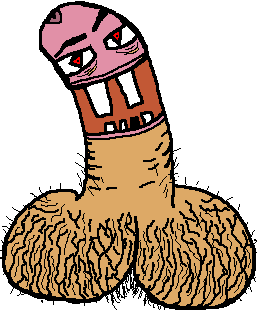
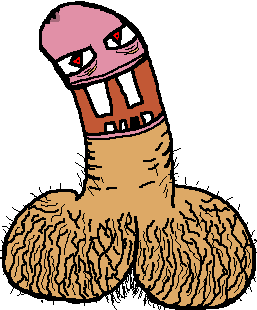
v.1.9.36# colores stats mejorados, animaciones parpadeo culo, ajustes varios, refactorización en progreso...

Changed region(s): [[0.2179, 0.029, 0.4358, 0.2032], [0.1868, 0.029, 0.249, 0.0871]]

diff --git a/core/src/main/java/com/sticklike/core/entidades/enemigos/mobs/EnemigoCulo.java b/core/src/main/java/com/sticklike/core/entidades/enemigos/mobs/EnemigoCulo.java
@@ -3,6 +3,7 @@ package com.sticklike.core.entidades.enemigos.mobs;
 import com.badlogic.gdx.graphics.Color;
 import com.badlogic.gdx.graphics.g2d.Sprite;
 import com.badlogic.gdx.graphics.g2d.SpriteBatch;
+import com.badlogic.gdx.math.MathUtils;
 import com.badlogic.gdx.math.Rectangle;
 import com.sticklike.core.entidades.enemigos.animacion.AnimacionesEnemigos;
 import com.sticklike.core.entidades.enemigos.movimiento.MovimientoCulo;
@@ -17,6 +18,8 @@ import static com.sticklike.core.utilidades.GestorDeAssets.*;
 
 public class EnemigoCulo implements Enemigo {
     private Sprite sprite;
+    private Sprite spriteOjoAbierto;
+    private Sprite spriteOjoCerrado;
     private Jugador jugador;
     private float vidaEnemigo = VIDA_ENEMIGOCULO;
     private MovimientoCulo movimientoCulo;
@@ -28,8 +31,14 @@ public class EnemigoCulo implements Enemigo {
     private AnimacionesEnemigos animacionesEnemigos;
     private float damageAmount = DANYO_CULO;
 
+    private boolean tieneOjo = false;
+    private boolean ojoCerrado = false;
+    private float tiempoAcumulado = 0;
+    private float tiempoParpadeo = 1.0f;
+    private float duracionCerrado = 0.25f;
+
     public EnemigoCulo(float x, float y, Jugador jugador, float velocidadEnemigo) {
-        esConOjo(); // Determina si el enemigo tiene ojo o no al crearse.
+        esConOjo(); // Determina si el enemigo tiene ojo o no al crearse
         sprite.setPosition(x, y);
         this.jugador = jugador;
         this.movimientoCulo = new MovimientoCulo(velocidadBase, true);
@@ -37,16 +46,22 @@ public class EnemigoCulo implements Enemigo {
     }
 
     private void esConOjo() {
-        float random = (float) (Math.random() * 10);
+        float random = MathUtils.random(10);
         if (random >= 2.5f) {
             sprite = new Sprite(enemigoCulo);
             sprite.setSize(26, 22);
         } else {
-            sprite = new Sprite(enemigoCuloOjo);
-            sprite.setSize(30, 26);
-            vidaEnemigo = VIDA_ENEMIGOCULO * 2; // Incrementa la vida si tiene ojo.
+            tieneOjo = true;
+            spriteOjoAbierto = new Sprite(enemigoCuloOjo);
+            spriteOjoAbierto.setSize(30, 26);
+            spriteOjoCerrado = new Sprite(enemigoCuloOjoCerrado);
+            spriteOjoCerrado.setSize(30, 26);
+            sprite = new Sprite(spriteOjoAbierto);
+
+            vidaEnemigo = VIDA_ENEMIGOCULO * 2;
         }
     }
+
 
     @Override
     public void aplicarKnockback(float fuerza, float dirX, float dirY) {
@@ -55,7 +70,6 @@ public class EnemigoCulo implements Enemigo {
 
     @Override
     public void renderizar(SpriteBatch batch) {
-        // Comprobamos si el enemigo sigue "vivo" o está en proceso de desvanecimiento (fade)
         boolean mostrarSprite = (vidaEnemigo > 0) || animacionesEnemigos.estaEnFade();
 
         if (mostrarSprite) {
@@ -83,14 +97,30 @@ public class EnemigoCulo implements Enemigo {
         animacionesEnemigos.actualizarFade(delta);
         movimientoCulo.actualizarMovimiento(delta, sprite, jugador);
 
-        if (temporizadorDanyo > 0) { // reseteamos el temporizador para que pueda aplicar daño más de 1 vez
+        if (temporizadorDanyo > 0) {
             temporizadorDanyo -= delta;
         }
 
-        // Verificar si el sprite debe voltearse
-        boolean estaALaIzquierda = !(sprite.getX() + sprite.getWidth() / 2 < jugador.getSprite().getX() + jugador.getSprite().getWidth() / 2);
+        // Animación de parpadeo del ojo
+        if (tieneOjo) {
+            tiempoAcumulado += delta;
 
-        // Voltear el sprite horizontalmente si la dirección ha cambiado
+            if (!ojoCerrado && tiempoAcumulado >= tiempoParpadeo) {
+                System.out.println("Ojo CERRADO");
+                sprite.setRegion(spriteOjoCerrado);
+                ojoCerrado = true;
+                tiempoAcumulado = 0;
+            } else if (ojoCerrado && tiempoAcumulado >= duracionCerrado) {
+                System.out.println("Ojo ABIERTO");
+                sprite.setRegion(spriteOjoAbierto);
+                ojoCerrado = false;
+                tiempoAcumulado = 0;
+            }
+        }
+
+        // Control de dirección del sprite según la posición del jugador
+        boolean estaALaIzquierda = !(sprite.getX() + sprite.getWidth() / 2 <
+            jugador.getSprite().getX() + jugador.getSprite().getWidth() / 2);
         if ((estaALaIzquierda && !sprite.isFlipX()) || (!estaALaIzquierda && sprite.isFlipX())) {
             sprite.flip(true, false);
         }

diff --git a/core/src/main/java/com/sticklike/core/ui/RenderHUDComponents.java b/core/src/main/java/com/sticklike/core/ui/RenderHUDComponents.java
@@ -29,7 +29,9 @@ import static com.sticklike.core.utilidades.GestorDeAssets.*;
 
 import java.text.DecimalFormat;
 import java.util.ArrayList;
+import java.util.HashSet;
 import java.util.List;
+import java.util.Set;
 
 /**
  * Clase encargada de dibujar los elementos del HUD en pantalla, como los stats, experiencia, nivel, temporizador, etc.
@@ -48,6 +50,7 @@ public class RenderHUDComponents {
     private String tiempoFormateado;
     private boolean pausadoTemporizador = false;
     private Stage hudStage;
+    private Set<String> upgradeStats = new HashSet<>();
 
     // --- NUEVA CAMARA Y VIEWPORT PARA EL HUD ---
     private OrthographicCamera hudCamera;
@@ -306,6 +309,7 @@ public class RenderHUDComponents {
             float posicionY = statsY - i * ESPACIADO;
             // Dibujar la descripción a la izquierda
             dibujarTextoConReborde(spriteBatch, descripciones[i], statsX - anchoDescripcion, posicionY, BASIC_OFFSET, Color.BLACK, Color.WHITE);
+
             // Dibujar el icono (si existe)
             if (iconos != null && i < iconos.length && iconos[i] != null) {
                 Texture icono = iconos[i];
@@ -314,11 +318,23 @@ public class RenderHUDComponents {
                 float iconY = posicionY - iconSize / 2f - ICON_Y_CORRECTION;
                 spriteBatch.draw(icono, iconX, iconY, iconSize, iconSize);
             }
-            // Dibujar el valor con reborde azul
-            dibujarTextoConReborde(spriteBatch, valores[i], statsX + ESPACIADO_LATERAL, posicionY, BASIC_OFFSET, Color.BLUE, Color.WHITE);
+
+            // Definir colores según si el stat está mejorado o no
+            Color textColor;
+            Color borderColor;
+            if (upgradeStats.contains(descripciones[i])) {
+                textColor = Color.GREEN;
+                borderColor = Color.BLACK;
+            } else {
+                textColor = Color.WHITE;
+                borderColor = Color.BLUE;
+            }
+
+            dibujarTextoConReborde(spriteBatch, valores[i], statsX + ESPACIADO_LATERAL, posicionY, BASIC_OFFSET, borderColor, textColor);
         }
         spriteBatch.end();
     }
+
 
     private void dibujarTextoConReborde(SpriteBatch batch, String texto, float x, float y, float offset, Color colorReborde, Color colorTexto) {
         fuente.setColor(colorReborde);
@@ -363,10 +379,10 @@ public class RenderHUDComponents {
         // Para cada slot, si hay una mejora, ponemos icono
         for (int i = 0; i < slotsList.size(); i++) {
             if (i < habilidadesActivas.size()) {
-                Mejora m = habilidadesActivas.get(i);
-                if (m.getIcono() != null) {
+                Mejora mejora = habilidadesActivas.get(i);
+                if (mejora.getIcono() != null) {
                     TextureRegionDrawable drawableIcono =
-                        new TextureRegionDrawable(new TextureRegion(m.getIcono()));
+                        new TextureRegionDrawable(new TextureRegion(mejora.getIcono()));
                     ImageButton.ImageButtonStyle style = new ImageButton.ImageButtonStyle();
                     style.imageUp = drawableIcono;
 
@@ -379,7 +395,7 @@ public class RenderHUDComponents {
                     boton.addListener(new ClickListener() {
                         @Override
                         public void clicked(InputEvent event, float x, float y) { // todo --> gestionar info de cada mejora al hacer click en ellas
-                            System.out.println("Hiciste clic en " + m.getNombreMejora());
+                            System.out.println("Hiciste clic en " + mejora.getNombreMejora());
                         }
                     });
 
@@ -420,6 +436,9 @@ public class RenderHUDComponents {
         spriteBatch.end();
     }
 
+    public void marcarStatComoMejorado(String statKey) {
+        upgradeStats.add(statKey);
+    }
 
     public void dispose() {
         if (texturaCorazonVida != null) texturaCorazonVida.dispose();

diff --git a/core/src/main/java/com/sticklike/core/gameplay/sistemas/SistemaDeMejoras.java b/core/src/main/java/com/sticklike/core/gameplay/sistemas/SistemaDeMejoras.java
@@ -7,6 +7,7 @@ import com.sticklike.core.entidades.objetos.armas.proyectiles.comportamiento.Ata
 import com.sticklike.core.gameplay.progreso.Mejora;
 import com.sticklike.core.MainGame;
 
+import static com.sticklike.core.utilidades.GestorConstantes.*;
 import static com.sticklike.core.utilidades.GestorDeAssets.*;
 
 import java.util.ArrayList;
@@ -133,6 +134,30 @@ public class SistemaDeMejoras {
 
         // Se aplica la mejora (se decrementa el contador de usos)
         mejoraSeleccionada.apply();
+
+        // marcamos las mejoras para aplicar el cambio de color al escogerlas
+        if (mejoraSeleccionada.getNombreMejora().equals("¡PIES VELOCES!"))
+            game.ventanaJuego1.getRenderHUDComponents().marcarStatComoMejorado(VEL_MOV);
+        if (mejoraSeleccionada.getNombreMejora().equals("¡BRAZOS LARGOS!"))
+            game.ventanaJuego1.getRenderHUDComponents().marcarStatComoMejorado(RANGO);
+        if (mejoraSeleccionada.getNombreMejora().equals("¡MANOS RÁPIDAS!"))
+            game.ventanaJuego1.getRenderHUDComponents().marcarStatComoMejorado(VEL_ATAQUE);
+        if (mejoraSeleccionada.getNombreMejora().equals("¡PUÑO DURO!"))
+            game.ventanaJuego1.getRenderHUDComponents().marcarStatComoMejorado(FUERZA);
+        if (mejoraSeleccionada.getNombreMejora().equals("¡MULTI PROYECTIL!"))
+            game.ventanaJuego1.getRenderHUDComponents().marcarStatComoMejorado(NUM_PROYECTILES);
+        if (mejoraSeleccionada.getNombreMejora().equals("¡CHUTE VITAL!"))
+            game.ventanaJuego1.getRenderHUDComponents().marcarStatComoMejorado(REG_VIDA);
+        if (mejoraSeleccionada.getNombreMejora().equals("¡PECHO FIRME!"))
+            game.ventanaJuego1.getRenderHUDComponents().marcarStatComoMejorado(RESIST);
+        if (mejoraSeleccionada.getNombreMejora().equals("¡CRITICÓN!"))
+            game.ventanaJuego1.getRenderHUDComponents().marcarStatComoMejorado(CRITIC);
+        if (mejoraSeleccionada.getNombreMejora().equals("¡PODER PODEROSO!"))
+            game.ventanaJuego1.getRenderHUDComponents().marcarStatComoMejorado(PODER);
+        if (mejoraSeleccionada.getNombreMejora().equals("¡CRITICÓN!"))
+            game.ventanaJuego1.getRenderHUDComponents().marcarStatComoMejorado(CRITIC);
+        if (mejoraSeleccionada.getNombreMejora().equals("¡CORAZÓN GORDO!"))
+            game.ventanaJuego1.getRenderHUDComponents().marcarStatComoMejorado(VIDA_MAX);
 
         // Si la mejora aplicada tiene ícono, se considera que es una habilidad o upgrade visual.
         // Si se trata de una habilidad base (su id no contiene "_"), se registra su id para habilitar futuros upgrades.

diff --git a/core/src/main/java/com/sticklike/core/utilidades/GestorDeAssets.java b/core/src/main/java/com/sticklike/core/utilidades/GestorDeAssets.java
@@ -11,7 +11,7 @@ import java.util.HashMap;
  * Clase encargada de cargar y liberar los recursos gráficos usados en el juego (texturas y animaciones)
  */
 public class GestorDeAssets {
-    public static Texture stickman, enemigoCulo, enemigoCuloOjo, enemigoRegla, enemigoReglaCruzada, enemigoPolla, corazonVida,
+    public static Texture stickman, enemigoCulo, enemigoCuloOjo,enemigoCuloOjoCerrado, enemigoRegla, enemigoReglaCruzada, enemigoPolla, corazonVida,
         armaPiedra, armaCalcetin, armaTazos, armaNubePedo, iconoXP, recolectableXP, recolectableXP2, recolectableVida, recolectableCacaDorada,
         recolectablePowerUp, iconoVelMov, iconoPoder, iconoFuerza, iconoResistencia, iconoProyectiles, iconoRegeneracion, iconoRango, iconoVelAt,
         iconoCritico, iconoVida,iconoCalaveraKills,texturaMarco, bossPolla;
@@ -37,6 +37,7 @@ public class GestorDeAssets {
         stickman = new Texture("jugador/01stickman.png");
         enemigoCulo = new Texture("enemigos/01culo.png");
         enemigoCuloOjo = new Texture("enemigos/04culoOjo.png");
+        enemigoCuloOjoCerrado = new Texture("enemigos/04culoOjoCerrado.png");
         enemigoReglaCruzada = new Texture("enemigos/03reglaCruzada.png");
         enemigoPolla = new Texture("enemigos/05polla2.png");
         corazonVida = new Texture("hud/life.png");
